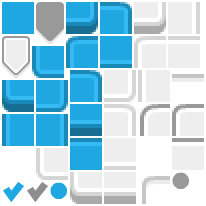
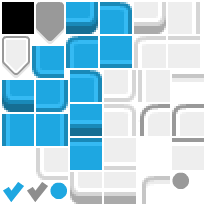
background for error message

Changed region(s): [[0.0, 0.0, 0.1748, 0.1748]]

diff --git a/src/game/auth/auth.js b/src/game/auth/auth.js
@@ -33,6 +33,7 @@ export default class Auth extends PIXI.Stage {
     };
 
     this.GUI.ErrorMessage.position.dy = -50;
+    this.GUI.ErrorMessageBg.position.dy = -50;
     this.GUI.authPassword.filters = [pixilate];
     this.GUI.authSubmit.on('click', this.login.bind(this));
     this.GUI.demoBtn.on('click', () => hexcraft.setStage(Demo));
@@ -40,9 +41,11 @@ export default class Auth extends PIXI.Stage {
 
   showError(message) {
     this.GUI.ErrorMessage.position.dy = 50;
+    this.GUI.ErrorMessageBg.position.dy = 50;
     this.GUI.ErrorMessage.text = message;
     window.setTimeout(()=>{
       this.GUI.ErrorMessage.position.dy = -50;
+      this.GUI.ErrorMessageBg.position.dy = -50;
     }, 10000);
   }
 
@@ -106,6 +109,7 @@ export default class Auth extends PIXI.Stage {
     if(position.y !== position.dy) {
       let sign = Math.sign(position.dy - position.y);
       position.y += sign*speed;
+      this.GUI.ErrorMessageBg.position.y += sign*speed;
     }
   }
 }

diff --git a/src/game/auth/auth.gui.js b/src/game/auth/auth.gui.js
@@ -66,16 +66,27 @@ export default [{
   height: 40
 },
 {
+  id: 'ErrorMessageBg',
+  text: '',
+  component: 'Window',
+  position: {
+    x: 260,
+    y: -50
+  },
+  width: 300,
+  height: 50
+},
+{
   id: 'ErrorMessage',
   font: {
     size: '16px',
-    color: '#000'
+    color: '#fff'
   },
   component: 'Label',
   position: {
-    x: 310,
+    x: 360,
     y: -50
   },
-  width: 200,
+  width: 100,
   height: 50
 }];
